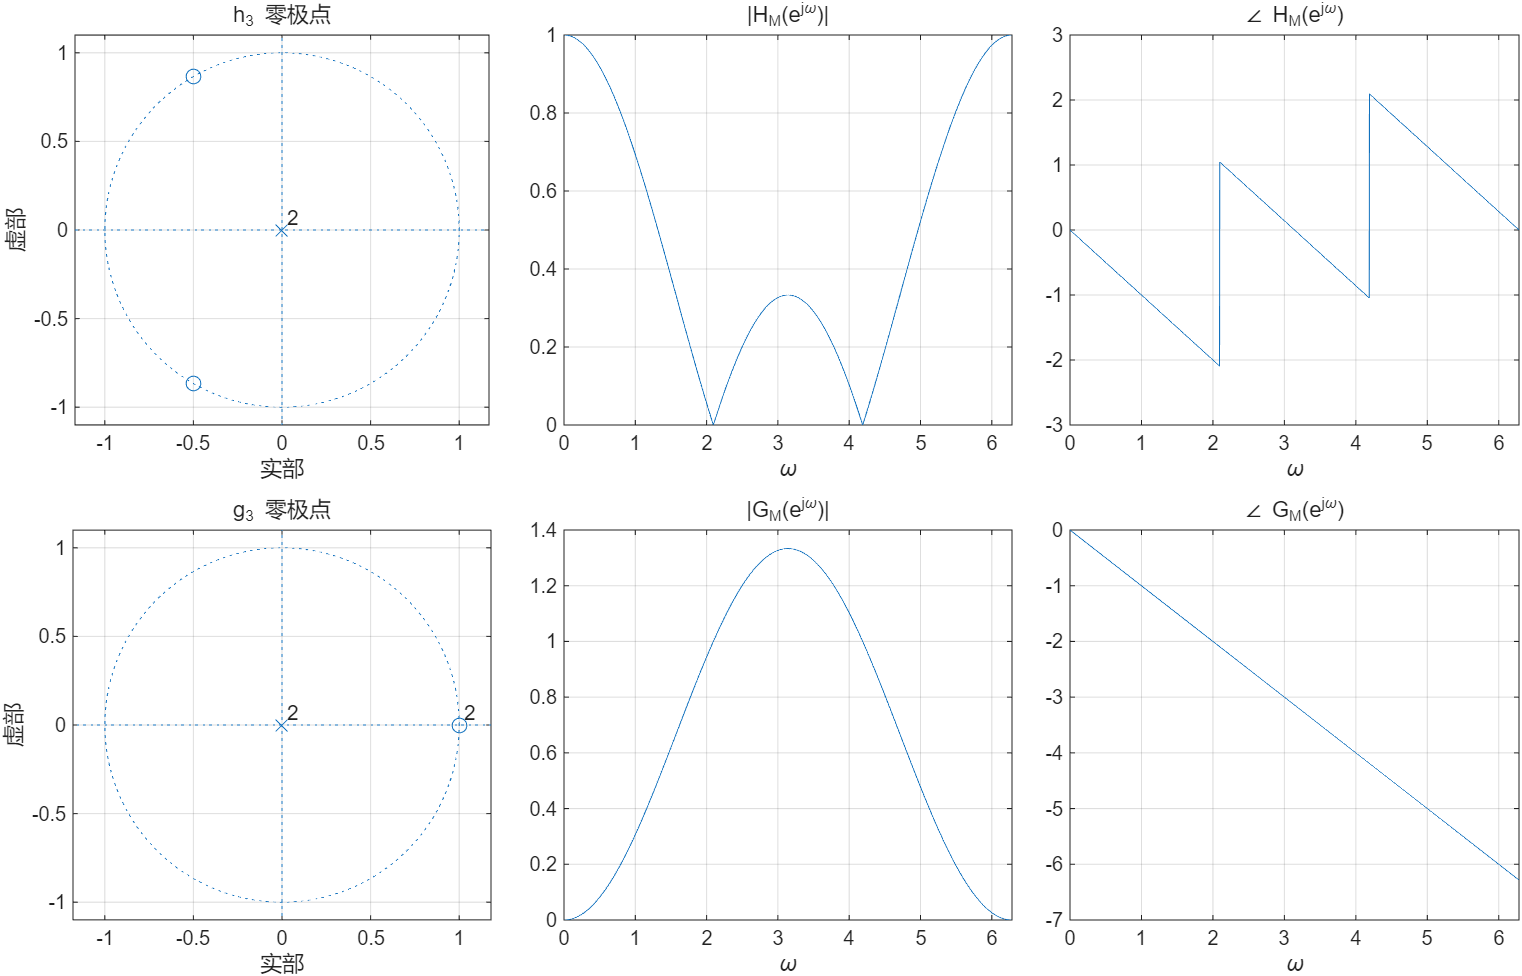
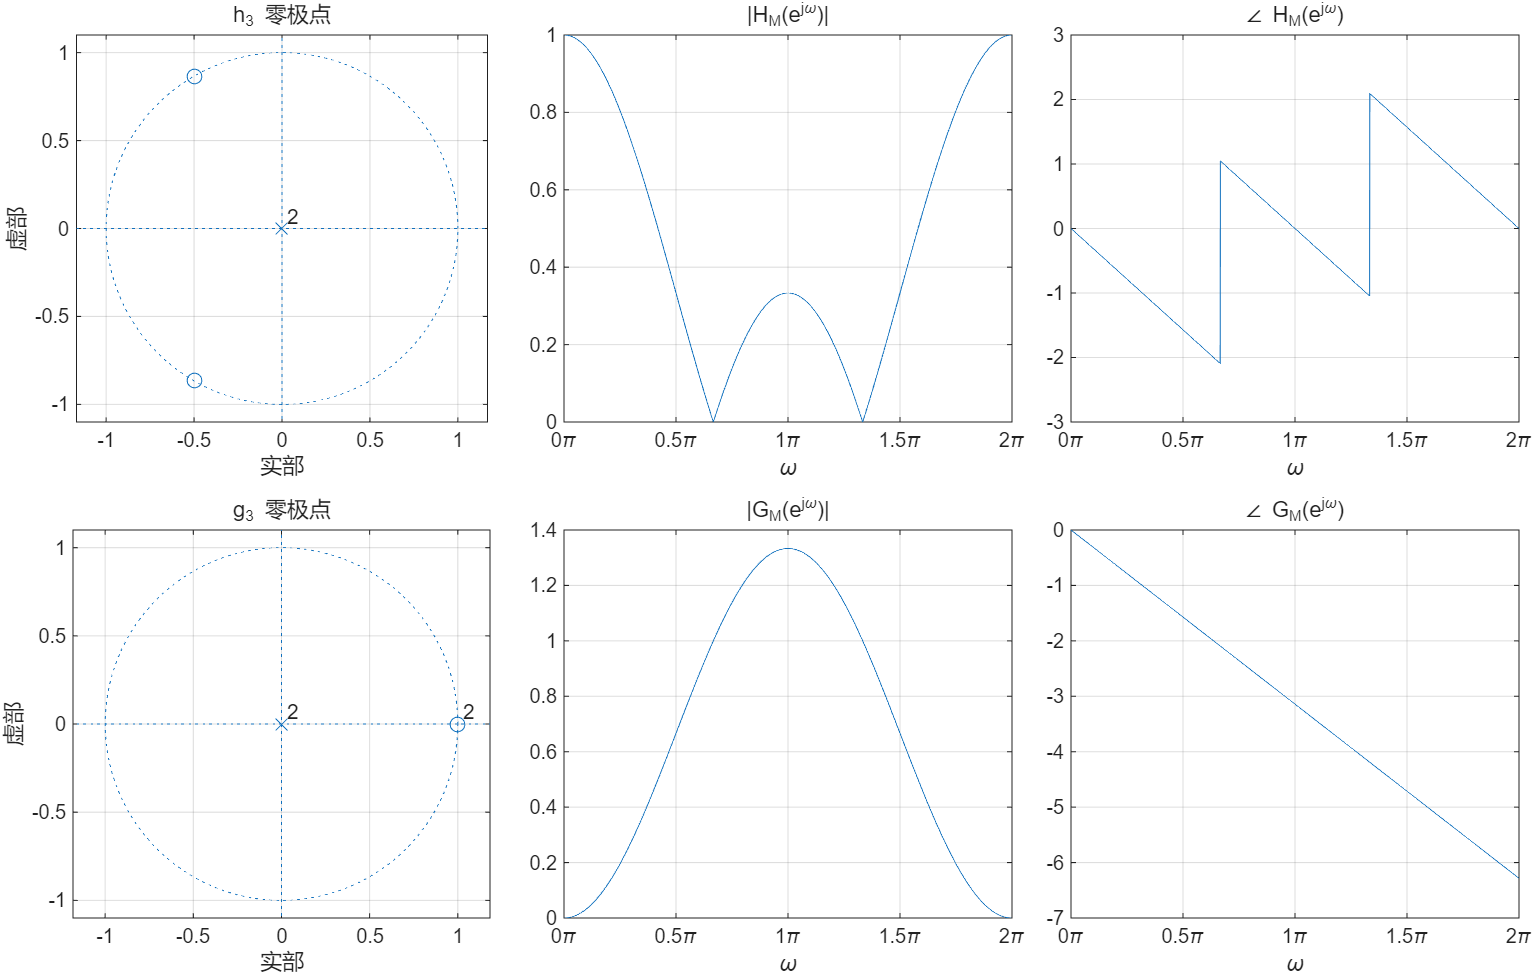
add dsp lab2 final files

diff --git a/DSP/Lab2/code.md b/DSP/Lab2/code.md
@@ -21,6 +21,8 @@ for i = 1:size(seqs,1)
     plot(w, abs(X)); 
     grid on; 
     xlim([0 2*pi]);
+    xticks(0:0.5*pi:2*pi);
+    xticklabels(string(0:0.5:2) + "\pi");
     xlabel('\omega'); 
     ylabel('|X(e^{j\omega})|');
     title([label ' 幅度']);
@@ -30,6 +32,8 @@ for i = 1:size(seqs,1)
     plot(w, unwrap(angle(X)));   % unwrap 去除 2π 跳变，使相位连续
     grid on; 
     xlim([0 2*pi]);
+    xticks(0:0.5*pi:2*pi);
+    xticklabels(string(0:0.5:2) + "\pi");
     xlabel('\omega'); 
     ylabel('\angle X(e^{j\omega})'); 
     title([label ' 相位']);
@@ -41,9 +45,10 @@ end
 
 ### 3-34
 ```matlab
-%% 3-34 周期序列的 DFS 与傅里叶变换(冲激谱)
-% 说明：DFS 系数 X[k] = (1/N) * DFT{x[0..N-1]}。
-% 周期序列的 DTFT 为在 ω_k=2πk/N 处的冲激，权重 2π X[k]。
+%% 3-34 周期序列的 DFS 与 DTFT
+% 周期序列在一个周期内的 DFT 就是该周期序列的 DFS
+% 周期序列的 DTFT 为在 ω_k=2πk/N 处的"冲激"，权重 2π X[k]。
+% 与非周期离散时间信号的DTFT谱不同，周期离散时间信号的谱是冲激谱，需要用stem作图
 clear; clc; close all;
 cases = {
     20, @(n) cos(0.8*pi*n) + cos(0.1*pi*n), '3-34(a) N=20';
@@ -82,6 +87,8 @@ for i = 1:size(cases,1)
     stem(wk, 2*pi/N*abs(Xk), 'filled'); 
     grid on; 
     xlim([0 2*pi]);
+    xticks(0:0.5*pi:2*pi);
+    xticklabels(string(0:0.5:2) + "\pi");
     xlabel('\omega'); 
     title('|X(e^{j\omega})|');
 
@@ -90,10 +97,11 @@ for i = 1:size(cases,1)
     stem(wk, angle(Xk), 'filled'); 
     grid on; 
     xlim([0 2*pi]);
-    xlabel('\omeg a'); 
+    xticks(0:0.5*pi:2*pi);
+    xticklabels(string(0:0.5:2) + "\pi");
+    xlabel('\omega'); 
     title('\angle X(e^{j\omega})');
 end
-
 ```
 ---
 
@@ -111,57 +119,73 @@ a = 1;   % 分母系数
 figure('Name','4-38 回声系统', 'NumberTitle','off');
 t = tiledlayout(2,2, 'Padding','compact','TileSpacing','compact');
 
+% 零极点图
 nexttile; 
 zplane(b,a);   % zplane函数求解零极点图
 grid on; 
 title('零极点图');
 
+% 幅度响应
 nexttile; 
 plot(w, abs(H)); 
-grid on; xlim([0 2*pi]);
-xlabel('\omega');  
+grid on; 
+xlim([0 2*pi]);
+xticks(0:0.5*pi:2*pi);
+xticklabels(string(0:0.5:2) + "\pi");
+xlabel('\omega'); 
+ylabel('|H(e^{j\omega})|')
 title('幅度响应');
 
+% 相位响应
 nexttile; 
 plot(w, unwrap(angle(H))); 
 grid on; 
 xlim([0 2*pi]);
+xticks(0:0.5*pi:2*pi);
+xticklabels(string(0:0.5:2) + "\pi");
 xlabel('\omega'); 
+ylabel('\angle H(e^{j\omega})')
 title('相位响应');
 
+% 群延迟
 nexttile; 
 plot(wg, gd); 
 grid on; 
 xlim([0 2*pi]);
+xticks(0:0.5*pi:2*pi);
+xticklabels(string(0:0.5:2) + "\pi");
 xlabel('\omega'); 
-ylabel('样点'); 
+ylabel('grd [H(e^{j\omega})]'); 
 title('群延迟');
-
 ```
 
 ---
 
 ### 4-39
 ```matlab
-% filepath: d:\MATLABap\Application\DSP\chap_solutions.m
-%% 全局设置
-clear; clc; close all;
-
 %% 4-39 滑动平均系统与其延迟互补系统
 % h_M[n] = (1/M) * rect_M[n]
-% g_M[n] = sinc(n-(M-1)/2) - h_M[n]（当 M 为奇数时 g_M 等价于 δ[n-(M-1)/2]-h_M[n]，为 FIR）
+% g_M[n] = sinc(n-(M-1)/2) - h_M[n]
+clear; clc; close all;
+
 Mlist = 2:5;
 
 for M = Mlist
+    disp("--------------------------------------");
+    fprintf("M=%d\n", M);
     b = ones(1, M) / M;     % 滑动平均 FIR 系数
     seq = 0 : (M-1);
-    disp('seq')
-    disp(seq - (M-1)/2)
     b_g = sinc(seq - (M-1)/2) - b;
-    disp(b_g)
+    disp("hm序列：");
+    disp(b);
+    disp("gm序列：");
+    disp(b_g);
     a = 1;
+
+    % 滑动平均系统
     [H, w] = freqz(b, a, 2048, 'whole');   % 0..2π
 
+    % 延迟互补系统
     [G, ww] = freqz(b_g, a, 2048, 'whole');
 
     figure('Name', sprintf('4-39_M=%d', M), 'NumberTitle','off');
@@ -178,7 +202,9 @@ for M = Mlist
     plot(w, abs(H)); 
     grid on; 
     xlim([0 2*pi]);
-    xlabel('\omega'); 
+    xticks(0:0.5*pi:2*pi);
+    xticklabels(string(0:0.5:2) + "\pi");
+    xlabel('\omega');  
     title('|H_M(e^{j\omega})|');
 
     % h_M 相位
@@ -186,6 +212,8 @@ for M = Mlist
     plot(w, unwrap(angle(H))); 
     grid on; 
     xlim([0 2*pi]);
+    xticks(0:0.5*pi:2*pi);
+    xticklabels(string(0:0.5:2) + "\pi");
     xlabel('\omega'); 
     title('\angle H_M(e^{j\omega})');
 
@@ -200,6 +228,8 @@ for M = Mlist
     plot(w, abs(G)); 
     grid on; 
     xlim([0 2*pi]);
+    xticks(0:0.5*pi:2*pi);
+    xticklabels(string(0:0.5:2) + "\pi");
     xlabel('\omega'); 
     title('|G_M(e^{j\omega})|');
 
@@ -208,8 +238,11 @@ for M = Mlist
     plot(w, unwrap(angle(G))); 
     grid on; 
     xlim([0 2*pi]);
+    xticks(0:0.5*pi:2*pi);
+    xticklabels(string(0:0.5:2) + "\pi");
     xlabel('\omega'); 
     title('\angle G_M(e^{j\omega})');
+
 end
 
 %% 工具函数：归一化 sinc

diff --git a/DSP/Lab2/TaskBook.md b/DSP/Lab2/TaskBook.md
@@ -113,9 +113,69 @@ $$
 (提示: 可以调用的函数有 `zplane()` 和 `freqz()` 等)
 
 ### 实验结果
+MATLAB计算得到序列$h_{M}[n]$和$g_{M}[n]$的值分别是：
+```
+--------------------------------------
+M=2
+hm序列：
+    0.5000    0.5000
 
+gm序列：
+    0.1366    0.1366
+
+--------------------------------------
+M=3
+hm序列：
+    0.3333    0.3333    0.3333
+
+gm序列：
+   -0.3333    0.6667   -0.3333
+
+--------------------------------------
+M=4
+hm序列：
+    0.2500    0.2500    0.2500    0.2500
+
+gm序列：
+   -0.4622    0.3866    0.3866   -0.4622
+
+--------------------------------------
+M=5
+hm序列：
+    0.2000    0.2000    0.2000    0.2000    0.2000
+
+gm序列：
+   -0.2000   -0.2000    0.8000   -0.2000   -0.2000
+```
+$M=2$时，两个系统的零极点图、幅度响应和相位响应见：
+![alt text](4-39_M=2.png)
+$M=3$时，两个系统的零极点图、幅度响应和相位响应见：
+![alt text](4-39_M=3.png)
+$M=4$时，两个系统的零极点图、幅度响应和相位响应见：
+![alt text](4-39_M=4.png)
+$M=5$时，两个系统的零极点图、幅度响应和相位响应见：
+![alt text](4-39_M=5.png)
 
 ### 实验分析
 已知对于任意: $M \geq 1$，序列: $\text{sinc}[\pi(n - \frac{M-1}{2})]$和$h_{M}[n]$均关于$n=\frac{M-1}{2}$偶对称，因此序列$g_{M}[n]$也关于$n=\frac{M-1}{2}$偶对称。并且：
 1. 当 $M$ 为偶数，即$M=2,4$时，满足$x[n] = x[M-1-n]$，$M-1$是奇数，因此两个系统都是II类系统
 2. 当 $M$ 为奇数，即$M=3,5$时，满足$x[n] = x[M-1-n]$，$M-1$是偶数，因此两个系统都是I类系统
+
+这几个序列也都是实序列，因此幅度响应关于$\omega = k\pi$偶对称，相位响应关于$\omega = k\pi$奇对称
+频率响应：
+$$X(e^{j\omega})=e^{-j\omega\frac{M}{2}}\sum_{n=0}^{M}x[n]\cos[\omega(n-\frac{M}{2})]$$
+其中相位响应为：
+$$\angle [X(e^{j\omega})] = $$
+
+$$
+\angle [X(e^{j\omega})] = \left\{
+\begin{aligned}
+& -\frac{M}{2}\omega & \sum_{n=0}^{M}x[n]\cos[\omega(n-\frac{M}{2})] > 0 \\
+&  -\frac{M}{2}\omega + \pi & \sum_{n=0}^{M}x[n]\cos[\omega(n-\frac{M}{2})] < 0\\
+\end{aligned}
+\right.
+$$
+
+即相位响应是$\omega$的分段线性函数，这一点在4-39的图中也能得到体现
+
+此外，我们知道，$M=2, 4$时$h_M[n]$和$g_M[n]$都是II类系统，观察它们的零极点图可以发现，它们均在$z=-1$处有一个零点，符合对称系统的零点特性。
